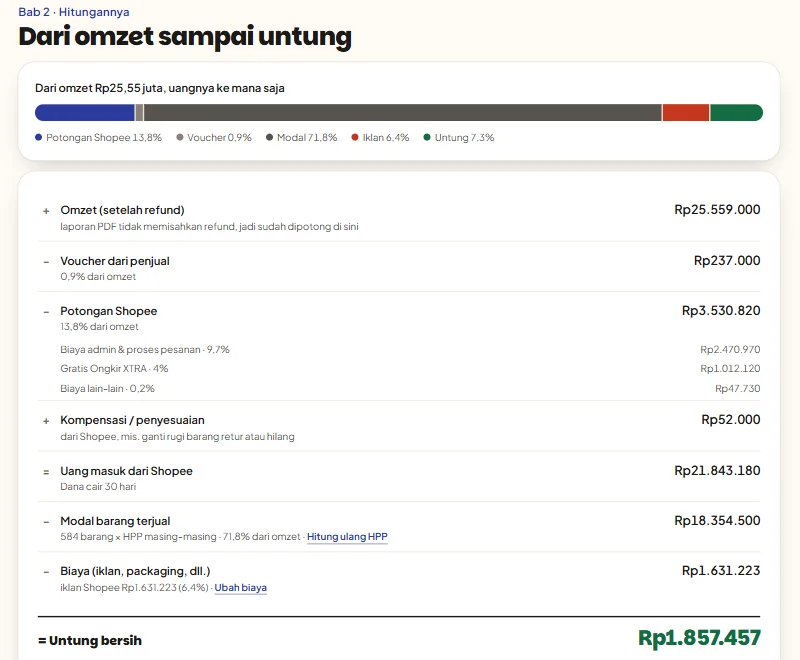
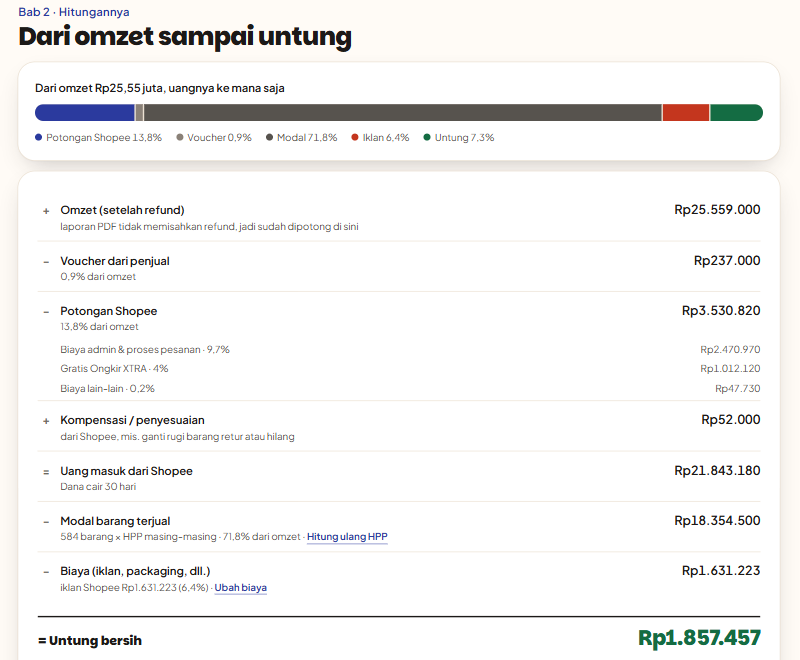
Landing 3: stop upscaling screenshots, encode crops losslessly
The hero Rekap screenshot looked pixelated: an 800px crop was stretched to
about 1114px and WebP quality 85 smeared the letter edges. From 768px a
screenshot frame is now never wider than its image's natural width (+2px
border), and every crop from a PNG source is re-encoded as lossless WebP
(files stay 20 to 50 KB).

Claude-Session: https://claude.ai/code/session_017BUvZQbh7WF7WL13xD53GA

diff --git a/src/landing3/ui.tsx b/src/landing3/ui.tsx
@@ -60,12 +60,17 @@ export function Contoh({ className = '' }: { className?: string }) {
  * Dengan gambar: label "Contoh" selalu tampil di bilah alamat, karena screenshot memuat angka toko (aturan repo: setiap
  * angka demo berlabel Contoh). Kalau `srcMobile` diisi, layar di bawah 768px memakai potongan khusus HP lewat <picture>,
  * supaya tulisan di screenshot tetap terbaca (screenshot desktop di HP mengecil sekitar 4 kali).
+ * Dari 768px, bingkai tidak pernah lebih lebar dari ukuran asli gambar (--nat): screenshot yang diperbesar terlihat pecah.
  */
 export const SHOT_MOBILE_QUERY = '(max-width: 767px)'
 
 export function Shot({ slot, priority = false, className = '' }: { slot: ScreenSlot; priority?: boolean; className?: string }) {
   return (
-    <figure id={slot.id} className={`shot ${slot.src ? 'has-img' : 'is-empty'} ${className}`}>
+    <figure
+      id={slot.id}
+      className={`shot ${slot.src ? 'has-img' : 'is-empty'} ${className}`}
+      style={slot.src && slot.width ? vars({ '--nat': `${slot.width}px` }) : undefined}
+    >
       <div className="shot-bar">
         <span className="shot-url" aria-hidden="true">
           app.studioharel.id

diff --git a/src/landing3/landing3.css b/src/landing3/landing3.css
@@ -482,6 +482,10 @@ html.menu-open .hdr-menu-bars { display: none; }
 .shot-url { padding: 0.15rem 0.75rem; background: var(--color-paper); border: 1px solid var(--color-line); }
 .shot-contoh { position: absolute; right: 0.5rem; top: 50%; translate: 0 -50%; background: var(--color-paper); }
 .shot-img { display: block; width: 100%; height: auto; }
+/* Jangan perbesar screenshot melewati ukuran aslinya (huruf jadi pecah). +2px untuk garis tepi bingkai. */
+@media (min-width: 768px) {
+  .shot.has-img { max-width: calc(var(--nat, 100vw) + 2px); }
+}
 .shot-cap-note { color: var(--color-ink-3); }
 .shot-empty {
   position: relative;

diff --git a/DESIGN.md b/DESIGN.md
@@ -221,8 +221,10 @@ WhatsApp bawaan menyebut "tanya akses", tanpa uji coba atau harga. `og.png` dibu
 **Screenshot** (semua di `src/landing3/content.ts`, file di `public/screens/`): terpasang sejak 22 Okt 2026 dari toko uji
 "Uji 1" (data contoh). Hero = Bab 1 Rekap, preview besar = Bab 2 "Dari omzet sampai untung", kecil = ringkasan halaman Iklan
 ("iklan rugi Rp243 ribu"; di HP diganti satu kartu produk berlabel Takedown) dan Simulasi Harga saat harga jual belum
-diisi (rekomendasi harga). Rekap dari screenshot selebar 896px: cukup tajam di HP, sedikit diperbesar di hero desktop; screenshot 2x akan lebih
-tajam. Rasio bebas, karena bingkai mengikuti rasio gambar.
+diisi (rekomendasi harga). Rekap dari screenshot selebar 896px. Rasio bebas, karena bingkai mengikuti rasio gambar. Dari 768px bingkai tidak
+pernah lebih lebar dari ukuran asli gambar (`--nat`), karena screenshot yang diperbesar terlihat pecah; potongan dari
+sumber PNG disimpan sebagai WebP lossless. Screenshot 2x (DevTools DPR 2) akan membuat bingkai bisa lebih lebar dan
+tetap tajam di layar retina.
 Angka di screenshot (Rp1,85 juta, produk kosmetik) berbeda dengan lembar contoh di bagian Saring (Rp3 juta, produk
 pakaian); keduanya berlabel Contoh. Rasio 16:10: hero 2240×1400, preview besar 1776×1110, dua preview kecil 1280×800 (bagian layar yang
 dizoom). Tiap slot boleh punya potongan khusus HP (`srcMobile`, dipakai di bawah 768px lewat `<picture>`), disarankan
